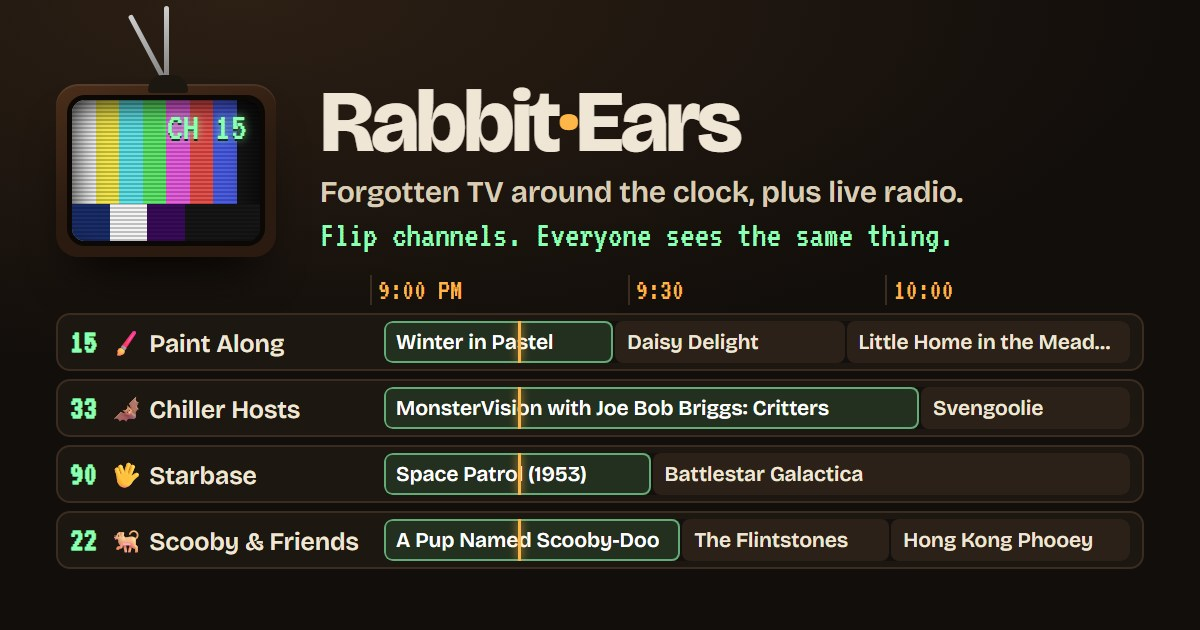
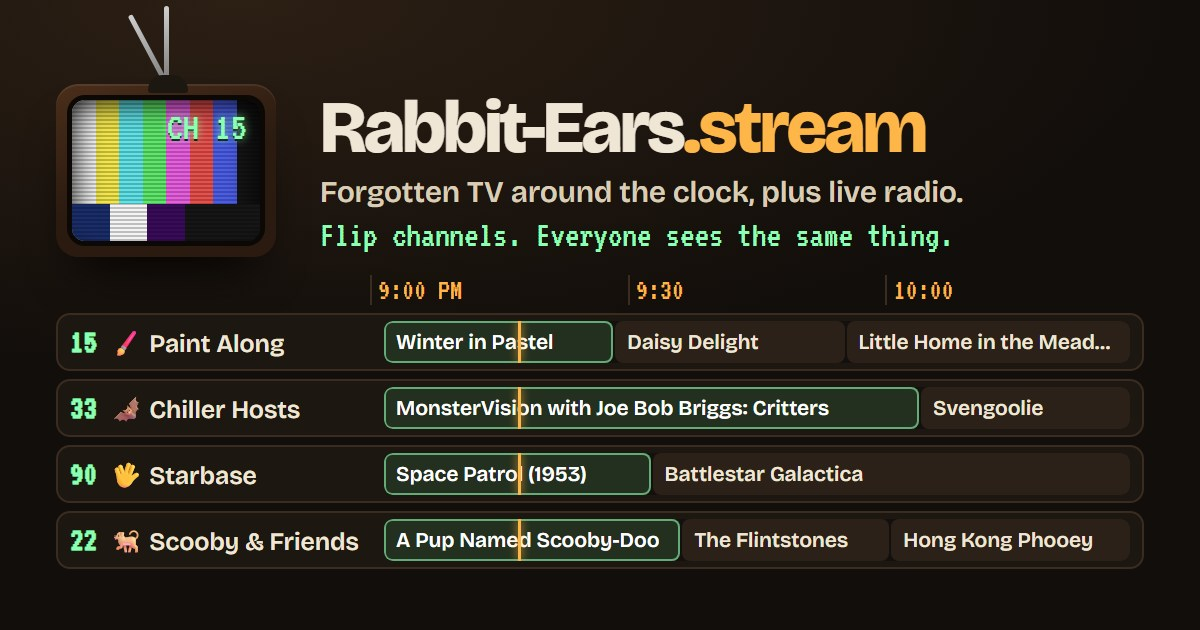
Rename the site to Rabbit-Ears.stream to match the domain

Changed region(s): [[0.2467, 0.1206, 0.7708, 0.2413]]

diff --git a/index.html b/index.html
@@ -3,24 +3,24 @@
 <head>
 <meta charset="utf-8">
 <meta name="viewport" content="width=device-width, initial-scale=1, viewport-fit=cover">
-<title>Rabbit Ears TV</title>
+<title>Rabbit-Ears.stream</title>
 <meta name="description" content="Synchronized 24/7 channels of Internet Archive video.">
 <meta name="theme-color" content="#120e0b">
 <!-- Link previews (iMessage, WhatsApp, Discord, Facebook, X, Slack…). Image source: share-card.html -->
 <meta property="og:type" content="website">
-<meta property="og:site_name" content="Rabbit Ears">
-<meta property="og:title" content="Rabbit Ears TV">
+<meta property="og:site_name" content="Rabbit-Ears.stream">
+<meta property="og:title" content="Rabbit-Ears.stream">
 <meta property="og:description" content="Forgotten TV around the clock, plus live radio from around the world. Flip channels, check the guide, see who's watching.">
 <meta property="og:url" content="https://rabbit-ears.stream/">
-<meta property="og:image" content="https://rabbit-ears.stream/og.jpg?v=4">
+<meta property="og:image" content="https://rabbit-ears.stream/og.jpg?v=5">
 <meta property="og:image:type" content="image/jpeg">
 <meta property="og:image:width" content="1200">
 <meta property="og:image:height" content="630">
-<meta property="og:image:alt" content="Rabbit Ears: a retro TV with color bars above a TV guide listing Paint Along, Chiller Hosts, Starbase and Scooby &amp; Friends">
+<meta property="og:image:alt" content="Rabbit-Ears.stream: a retro TV with color bars above a TV guide listing Paint Along, Chiller Hosts, Starbase and Scooby &amp; Friends">
 <meta name="twitter:card" content="summary_large_image">
-<meta name="twitter:title" content="Rabbit Ears TV">
+<meta name="twitter:title" content="Rabbit-Ears.stream">
 <meta name="twitter:description" content="Forgotten TV around the clock, plus live radio from around the world.">
-<meta name="twitter:image" content="https://rabbit-ears.stream/og.jpg?v=4">
+<meta name="twitter:image" content="https://rabbit-ears.stream/og.jpg?v=5">
 <link rel="preconnect" href="https://fonts.googleapis.com">
 <link rel="preconnect" href="https://fonts.gstatic.com" crossorigin>
 <link rel="stylesheet" href="https://fonts.googleapis.com/css2?family=VT323&family=Bricolage+Grotesque:opsz,wght@12..96,400;12..96,600;12..96,800&display=swap">
@@ -263,7 +263,7 @@ select:focus-visible, textarea:focus-visible { outline: 2px solid var(--amber); 
 <body>
 <div class="welcome" id="welcome" role="dialog" aria-modal="true" aria-labelledby="wTitle" hidden>
   <div class="wcard">
-    <p class="brand" id="wTitle">Rabbit<span>·</span>Ears</p>
+    <p class="brand" id="wTitle">Rabbit-Ears<span>.stream</span></p>
     <p class="wlead">Forgotten TV, on the air around the clock.</p>
     <p class="wbody">Old commercials, kung fu movies, '80s and '90s cartoons, game shows, Slow TV and more, all streaming from the Internet Archive. Everyone tuned to a channel sees the same thing at the same moment, just like broadcast TV.</p>
     <div class="wstats">
@@ -280,7 +280,7 @@ select:focus-visible, textarea:focus-visible { outline: 2px solid var(--amber); 
 </div>
 <div class="wrap">
   <header>
-    <h1 class="brand">Rabbit<span>·</span>Ears</h1>
+    <h1 class="brand">Rabbit-Ears<span>.stream</span></h1>
     <p class="tag" id="tagline">Forgotten Internet Archive video, on the air around the clock.</p>
   </header>
 
@@ -410,7 +410,7 @@ select:focus-visible, textarea:focus-visible { outline: 2px solid var(--amber); 
         <option>Feature request</option>
         <option>Something's broken</option>
       </select>
-      <textarea id="sugText" rows="3" required maxlength="2000" placeholder="What should Rabbit Ears add? e.g. a channel of 80s music videos"></textarea>
+      <textarea id="sugText" rows="3" required maxlength="2000" placeholder="What should Rabbit-Ears.stream add? e.g. a channel of 80s music videos"></textarea>
       <button class="btn" type="submit">Send suggestion</button>
     </form>
     <p class="hint" id="sugDone" hidden>Thanks! Finish posting it in the GitHub tab that just opened.</p>
@@ -1138,9 +1138,9 @@ $("share").onclick = async () => {
   const ch = channels()[cur];
   if (ch.custom) { $("share").textContent = "Your own channels can't be shared"; return; }
   const url = location.origin + location.pathname + "#ch" + ch.no;
-  const text = `${ch.icon} ${ch.name} on Rabbit Ears${playing ? ": " + playing.m.title : ""}`;
+  const text = `${ch.icon} ${ch.name} on Rabbit-Ears.stream${playing ? ": " + playing.m.title : ""}`;
   try {
-    if (navigator.share && matchMedia("(pointer: coarse)").matches) await navigator.share({ title: "Rabbit Ears", text, url });
+    if (navigator.share && matchMedia("(pointer: coarse)").matches) await navigator.share({ title: "Rabbit-Ears.stream", text, url });
     else { await navigator.clipboard.writeText(url); $("share").textContent = "✓ Link copied"; setTimeout(() => $("share").textContent = "🔗 Share this channel", 2500); }
   } catch {}
 };
@@ -1290,7 +1290,7 @@ function showStation(s) {
   // Lock screen / headphone controls show the station too.
   if (s && "mediaSession" in navigator) {
     try {
-      navigator.mediaSession.metadata = new MediaMetadata({ title: s.name, artist: stationLine(s), album: "Rabbit Ears Radio",
+      navigator.mediaSession.metadata = new MediaMetadata({ title: s.name, artist: stationLine(s), album: "Rabbit-Ears.stream Radio",
         artwork: s.favicon?.startsWith("https://") ? [{ src: s.favicon }] : [] });
       navigator.mediaSession.setActionHandler("previoustrack", () => stepStation(-1));
       navigator.mediaSession.setActionHandler("nexttrack", () => stepStation(1));
@@ -1424,7 +1424,7 @@ $("suggest").onsubmit = e => {
   const kind = $("sugKind").value, text = $("sugText").value.trim();
   if (!text) return;
   const title = `${kind}: ${text.split("\n")[0].slice(0, 70)}`;
-  const url = `${REPO}/issues/new?labels=suggestion&title=${encodeURIComponent(title)}&body=${encodeURIComponent(text + "\n\n_Sent from the Rabbit Ears suggestion box._")}`;
+  const url = `${REPO}/issues/new?labels=suggestion&title=${encodeURIComponent(title)}&body=${encodeURIComponent(text + "\n\n_Sent from the Rabbit-Ears.stream suggestion box._")}`;
   window.open(url, "_blank", "noopener");
   $("suggest").reset();
   $("sugDone").hidden = false;

diff --git a/share-card.html b/share-card.html
@@ -2,7 +2,7 @@
 <html lang="en">
 <head>
 <meta charset="utf-8">
-<title>Rabbit Ears share card</title>
+<title>Rabbit-Ears.stream share card</title>
 <!-- Source for og.jpg, the image shown when the site's link is shared. Rendered at 1200×630 with
      headless Edge (see DEVLOG). The guide rows use real programs from the channels. -->
 <link rel="stylesheet" href="https://fonts.googleapis.com/css2?family=VT323&family=Bricolage+Grotesque:opsz,wght@12..96,600;12..96,800&display=swap">
@@ -24,7 +24,7 @@
   .screen::before { content: ""; position: absolute; left: 0; right: 0; bottom: 0; height: 26%; background: linear-gradient(90deg, #1a2d6b 0 20%, #f4f4f4 20% 40%, #3a0b5c 40% 60%, #161616 60% 100%); }
   .screen::after { content: ""; position: absolute; inset: 0; background: repeating-linear-gradient(0deg, rgba(0,0,0,.22) 0 2px, transparent 2px 4px), radial-gradient(120% 100% at 50% 50%, transparent 55%, rgba(0,0,0,.6)); }
   .osd { position: absolute; top: 5%; right: 7%; z-index: 2; font-family: "VT323", monospace; font-size: 40px; color: #8dffb4; text-shadow: 0 0 8px rgba(141,255,180,.8), 0 2px 0 #000; }
-  h1 { margin: 0; font-weight: 800; font-size: 88px; letter-spacing: -0.04em; line-height: .9; }
+  h1 { margin: 0; font-weight: 800; font-size: 74px; letter-spacing: -0.04em; line-height: .9; }
   h1 span { color: #ffb648; }
   .lede { margin: 12px 0 0; font-size: 30px; line-height: 1.2; color: #d9cdb8; font-weight: 600; }
   .lede b { display: block; margin-top: 4px; color: #8dffb4; font-family: "VT323", monospace; font-weight: 400; font-size: 36px; }
@@ -47,7 +47,7 @@
   <div class="top">
     <div class="cabinet"><div class="ears"><i></i><i></i><b></b></div><div class="screen"><div class="osd">CH 15</div></div></div>
     <div>
-      <h1>Rabbit<span>·</span>Ears</h1>
+      <h1>Rabbit-Ears<span>.stream</span></h1>
       <p class="lede">Forgotten TV around the clock, plus live radio. <b>Flip channels. Everyone sees the same thing.</b></p>
     </div>
   </div>

diff --git a/DEVLOG.md b/DEVLOG.md
@@ -4,6 +4,16 @@ Newest entries at the top. Each entry: what changed, why, and anything left open
 
 ---
 
+## 2026-11-08 — Name matches the domain: Rabbit-Ears.stream
+
+- The site's name is now **Rabbit-Ears.stream** everywhere it's shown: browser tab title, header, welcome screen,
+  link previews (title, site name, image description), the share-sheet text, the lock-screen radio label and the
+  suggestion box. ".stream" uses the amber accent color. Web addresses stay lowercase.
+- Share image re-rendered with the new name (`og.jpg?v=5`).
+- Checked at phone width: the header fits on one line, no sideways scroll.
+
+---
+
 ## 2026-11-08 — Full episodes and better picture quality on Star Trek
 
 Channel 97 now uses an approved source library instead of open searches. The heavily blurred

diff --git a/README.md b/README.md
@@ -1,4 +1,4 @@
-# Rabbit Ears
+# Rabbit-Ears.stream
 
 Forgotten Internet Archive video on synchronized channels, plus live radio from around the world.
 
